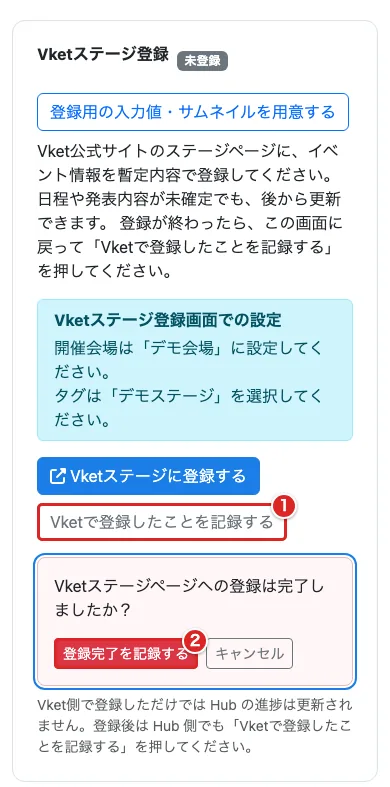
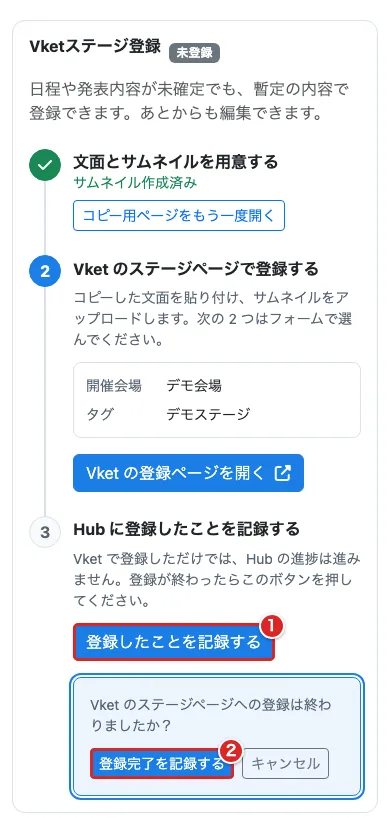
fix(vket): 削除を伴う公開同期と主催者の引き継ぎの確認は赤に戻し、ガイド画像を撮り直す
- 公開同期は保留中の発表を削除することがあり、主催者の引き継ぎは権限が動くため赤のままにする
- コラボ設定の編集・一覧 URL はホストがあり、ユーザー情報を含まない https の URL だけを使う
- デザイン規約にボタンの色の決め方を足す

Claude-Session: https://claude.ai/code/session_01Vhc4PURKxRwPfgtfaDWSLC

diff --git a/app/vket/templates/vket/manage.html b/app/vket/templates/vket/manage.html
@@ -212,7 +212,7 @@
                 {% include 'ta_hub/admin/includes/section_heading.html' with title='全体公開' description='確定済み日程をまとめて公開イベントに同期します。行ごとの保存とは別の操作です。' only %}
                 <button class="btn btn-outline-primary" type="button" data-confirm-panel="publish-confirm" aria-controls="publish-confirm" aria-expanded="false">公開同期（Event作成）…</button>
                 {% url 'vket:manage_publish' collaboration.id as publish_url %}
-                {% include 'ta_hub/admin/includes/confirm_panel.html' with panel_id='publish-confirm' label='全体公開の確認' message='確定済み日程をすべてイベントとして公開します。発表時間に重なりがある場合も同期されます。' action_url=publish_url submit_label='公開同期（Event作成）' tone='primary' %}
+                {% include 'ta_hub/admin/includes/confirm_panel.html' with panel_id='publish-confirm' label='全体公開の確認' message='確定済み日程をすべてイベントとして公開します。発表時間に重なりがある場合も同期されます。' action_url=publish_url submit_label='公開同期（Event作成）' %}
             </section>
         {% endif %}
 

diff --git a/app/community/templates/community/accept_ownership_transfer.html b/app/community/templates/community/accept_ownership_transfer.html
@@ -12,7 +12,7 @@
 {% if user.is_authenticated %}
 {% url 'community:detail' community.pk as return_url %}
 {% with message=community.name|add:'の主催者を引き継ぎます。現在の主催者はスタッフに降格されます。あなたは集会の編集、メンバー管理、閉鎖などの全権限を持ちます。元の主催者の同意のもとで確定してください。' %}
-{% include 'ta_hub/admin/includes/confirm_panel.html' with panel_id='accept-transfer' label='主催者引き継ぎの確認' message=message action_url='' submit_label='主催者を引き継ぐ' open=True cancel_url=return_url tone='primary' %}
+{% include 'ta_hub/admin/includes/confirm_panel.html' with panel_id='accept-transfer' label='主催者引き継ぎの確認' message=message action_url='' submit_label='主催者を引き継ぐ' open=True cancel_url=return_url %}
 {% endwith %}
 {% else %}
 <p>主催者を引き継ぐと、現在の主催者はスタッフに降格されます。集会の編集・メンバー管理・閉鎖の権限を引き継ぎます。</p>

diff --git a/app/community/tests/test_admin_ui.py b/app/community/tests/test_admin_ui.py
@@ -232,9 +232,11 @@ class CommunityAdminUITest(TestCase):
         self.assertIsNotNone(soup.select_one('[name="redirect_to"][value="' + reverse('event:calendar_create') + '"]'))
 
     def test_invitation_and_transfer_acceptance_states(self):
-        for invitation_type, route, title in [
-            (CommunityInvitation.InvitationType.STAFF, 'accept_invitation', 'スタッフ招待の受諾'),
-            (CommunityInvitation.InvitationType.OWNERSHIP_TRANSFER, 'accept_ownership_transfer', '主催者引継ぎの受諾'),
+        # スタッフ招待の受諾は青、権限が動く主催者の引き継ぎは赤のまま
+        for invitation_type, route, title, submit_class in [
+            (CommunityInvitation.InvitationType.STAFF, 'accept_invitation', 'スタッフ招待の受諾', 'btn-primary'),
+            (CommunityInvitation.InvitationType.OWNERSHIP_TRANSFER, 'accept_ownership_transfer', '主催者引継ぎの受諾',
+             'btn-danger'),
         ]:
             invitation = CommunityInvitation.objects.create(
                 community=self.community, created_by=self.owner, invitation_type=invitation_type,
@@ -242,7 +244,7 @@ class CommunityAdminUITest(TestCase):
             self.client.force_login(self.personal)
             soup = self.assert_page(self.page(route, invitation.token), f'{title}: {self.community.name}')
             self.assertIsNotNone(soup.select_one('.confirm-panel:not([hidden]) form[method="post"][action=""]'))
-            self.assertIsNotNone(soup.select_one('.confirm-panel--primary button[type=submit].btn-primary'))
+            self.assertIsNotNone(soup.select_one(f'.confirm-panel button[type=submit].{submit_class}'))
             self.client.force_login(self.owner)
             response = self.page(route, invitation.token)
             self.assertContains(response, 'あなたは既にこの集会の')

diff --git a/app/vket/views/status.py b/app/vket/views/status.py
@@ -2,6 +2,7 @@ from __future__ import annotations
 
 from datetime import date
 import re
+from urllib.parse import urlsplit
 
 from django.contrib import messages
 from django.contrib.auth.mixins import LoginRequiredMixin
@@ -53,14 +54,22 @@ def _resolve_stage_url(collaboration: VketCollaboration) -> str:
     return ''
 
 
+def _is_plain_https_url(value: str) -> bool:
+    """ホストがあり、ユーザー情報・空白・制御文字を含まない https の URL なら True を返す"""
+    if any(ch.isspace() or ord(ch) < 0x20 or ord(ch) == 0x7f for ch in value):
+        return False
+    parsed = urlsplit(value)
+    return parsed.scheme == 'https' and bool(parsed.hostname) and '@' not in parsed.netloc
+
+
 def _resolve_stage_related_url(collaboration: VketCollaboration, key: str) -> str:
     settings_json = collaboration.settings_json or {}
     if isinstance(settings_json, dict):
         value = settings_json.get(key)
         if isinstance(value, str) and value.strip():
-            # 登録 URL の既存の扱いは維持し、追加のリンクだけ HTTPS に限定する。
+            # 登録 URL の既存の扱いは維持し、追加のリンクだけ HTTPS の普通の URL に限定する。
             value = value.strip()
-            return value if value.startswith('https://') else ''
+            return value if _is_plain_https_url(value) else ''
 
     match = re.fullmatch(
         r'https://vket\.com/mypage/event/([A-Za-z0-9]+)/my_notification/new/?',

diff --git a/app/vket/tests/test_manage_admin_ui.py b/app/vket/tests/test_manage_admin_ui.py
@@ -127,8 +127,9 @@ class ManageAdminUiTests(VketManageViewsBase):
         _, soup = self.page('manage')
         form = soup.select_one('#publication #publish-confirm[hidden] form')
         self.assertEqual(form['action'], self.url('manage_publish'))
-        self.assertIn('btn-primary', form.select_one('button[type=submit]')['class'])
-        self.assertIsNotNone(soup.select_one('#publish-confirm.confirm-panel--primary'))
+        # 公開同期は保留中の発表の削除を伴うことがあるため、確認は赤のまま
+        self.assertIn('btn-danger', form.select_one('button[type=submit]')['class'])
+        self.assertIsNone(soup.select_one('#publish-confirm.confirm-panel--primary'))
         self.assertEqual({field['name'] for field in form.select('[name]')}, {'csrfmiddlewaretoken'})
         self.assertIsNone(form.find_parent('form'))
 

diff --git a/app/vket/tests/test_stage_registration_urls.py b/app/vket/tests/test_stage_registration_urls.py
@@ -58,7 +58,8 @@ class StageRegistrationURLTests(SimpleTestCase):
 
     def test_non_https_explicit_settings_are_suppressed_without_fallback(self):
         for value in ('javascript:alert(1)', 'data:text/html,test', '//example.com/path',
-                      'http://example.com/path', '/relative/path'):
+                      'http://example.com/path', '/relative/path', 'https://', 'https://vket.com@evil.invalid/',
+                      'https://vket.com/a\nb', 'https://vket.com/a b'):
             with self.subTest(value=value):
                 self.assertEqual(self.resolve({
                     'stage_url': 'https://vket.com/mypage/event/2026Winter/my_notification/new',
